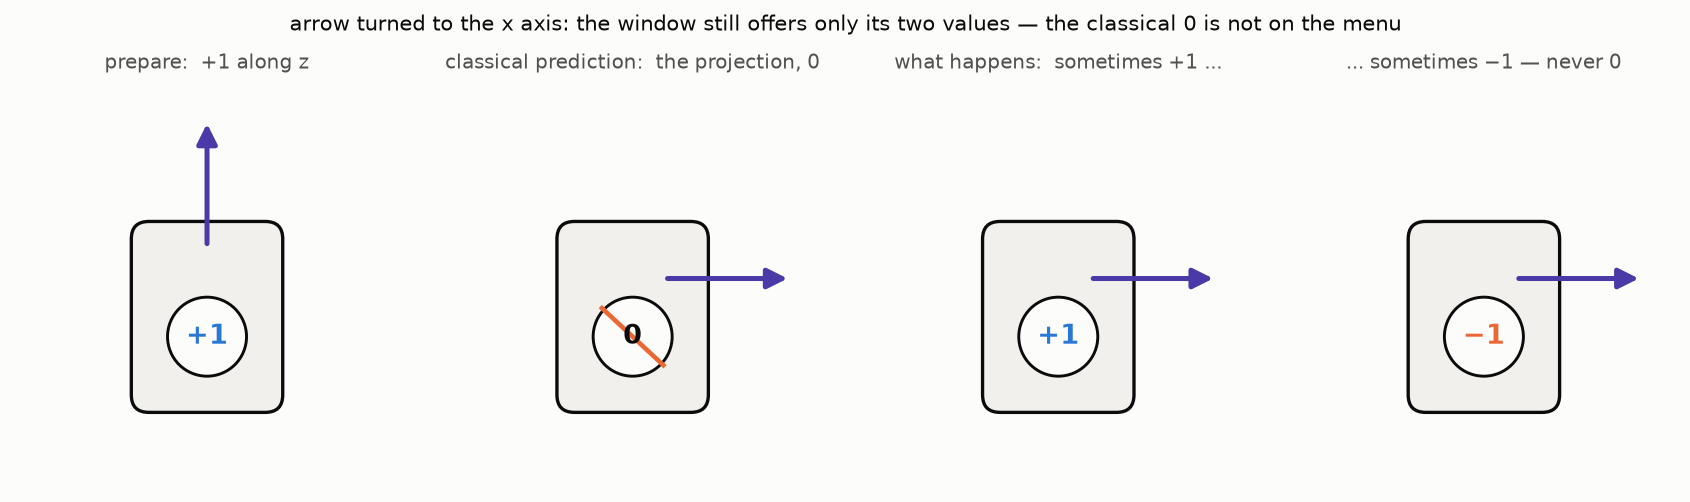
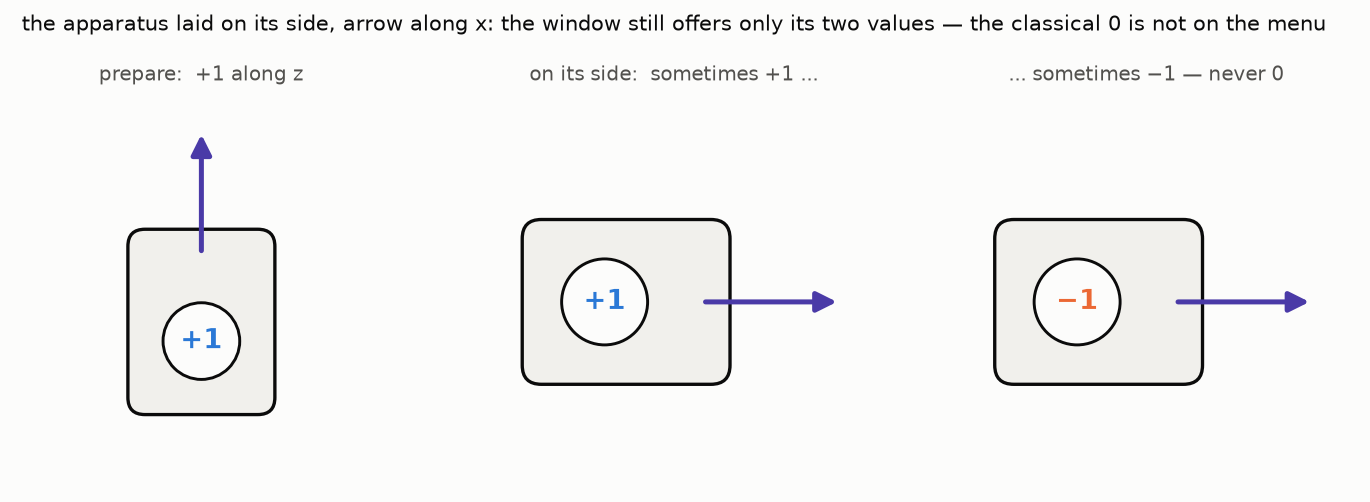
QM-1: never-zero figure - apparatus physically on its side, crossed-out-zero panel dropped

diff --git a/content/posts/the-apparatus-and-the-arrow/index.md b/content/posts/the-apparatus-and-the-arrow/index.md
@@ -118,7 +118,7 @@ should read $0$.
 It reads $+1$. Or $-1$. Never $0$ — the window has exactly two values
 it is willing to show, and turning the apparatus does not change that.
 
-![Arrow turned to the x axis: the classical prediction of 0 is crossed out — the window shows +1 or −1, never 0](never_zero.png)
+![The apparatus laid on its side, arrow along x: the window shows +1 or −1, never 0](never_zero.png)
 
 But run the experiment many times — each round: prepare $+1$ along $z$,
 turn the apparatus to $x$, measure — and record the answers. The
